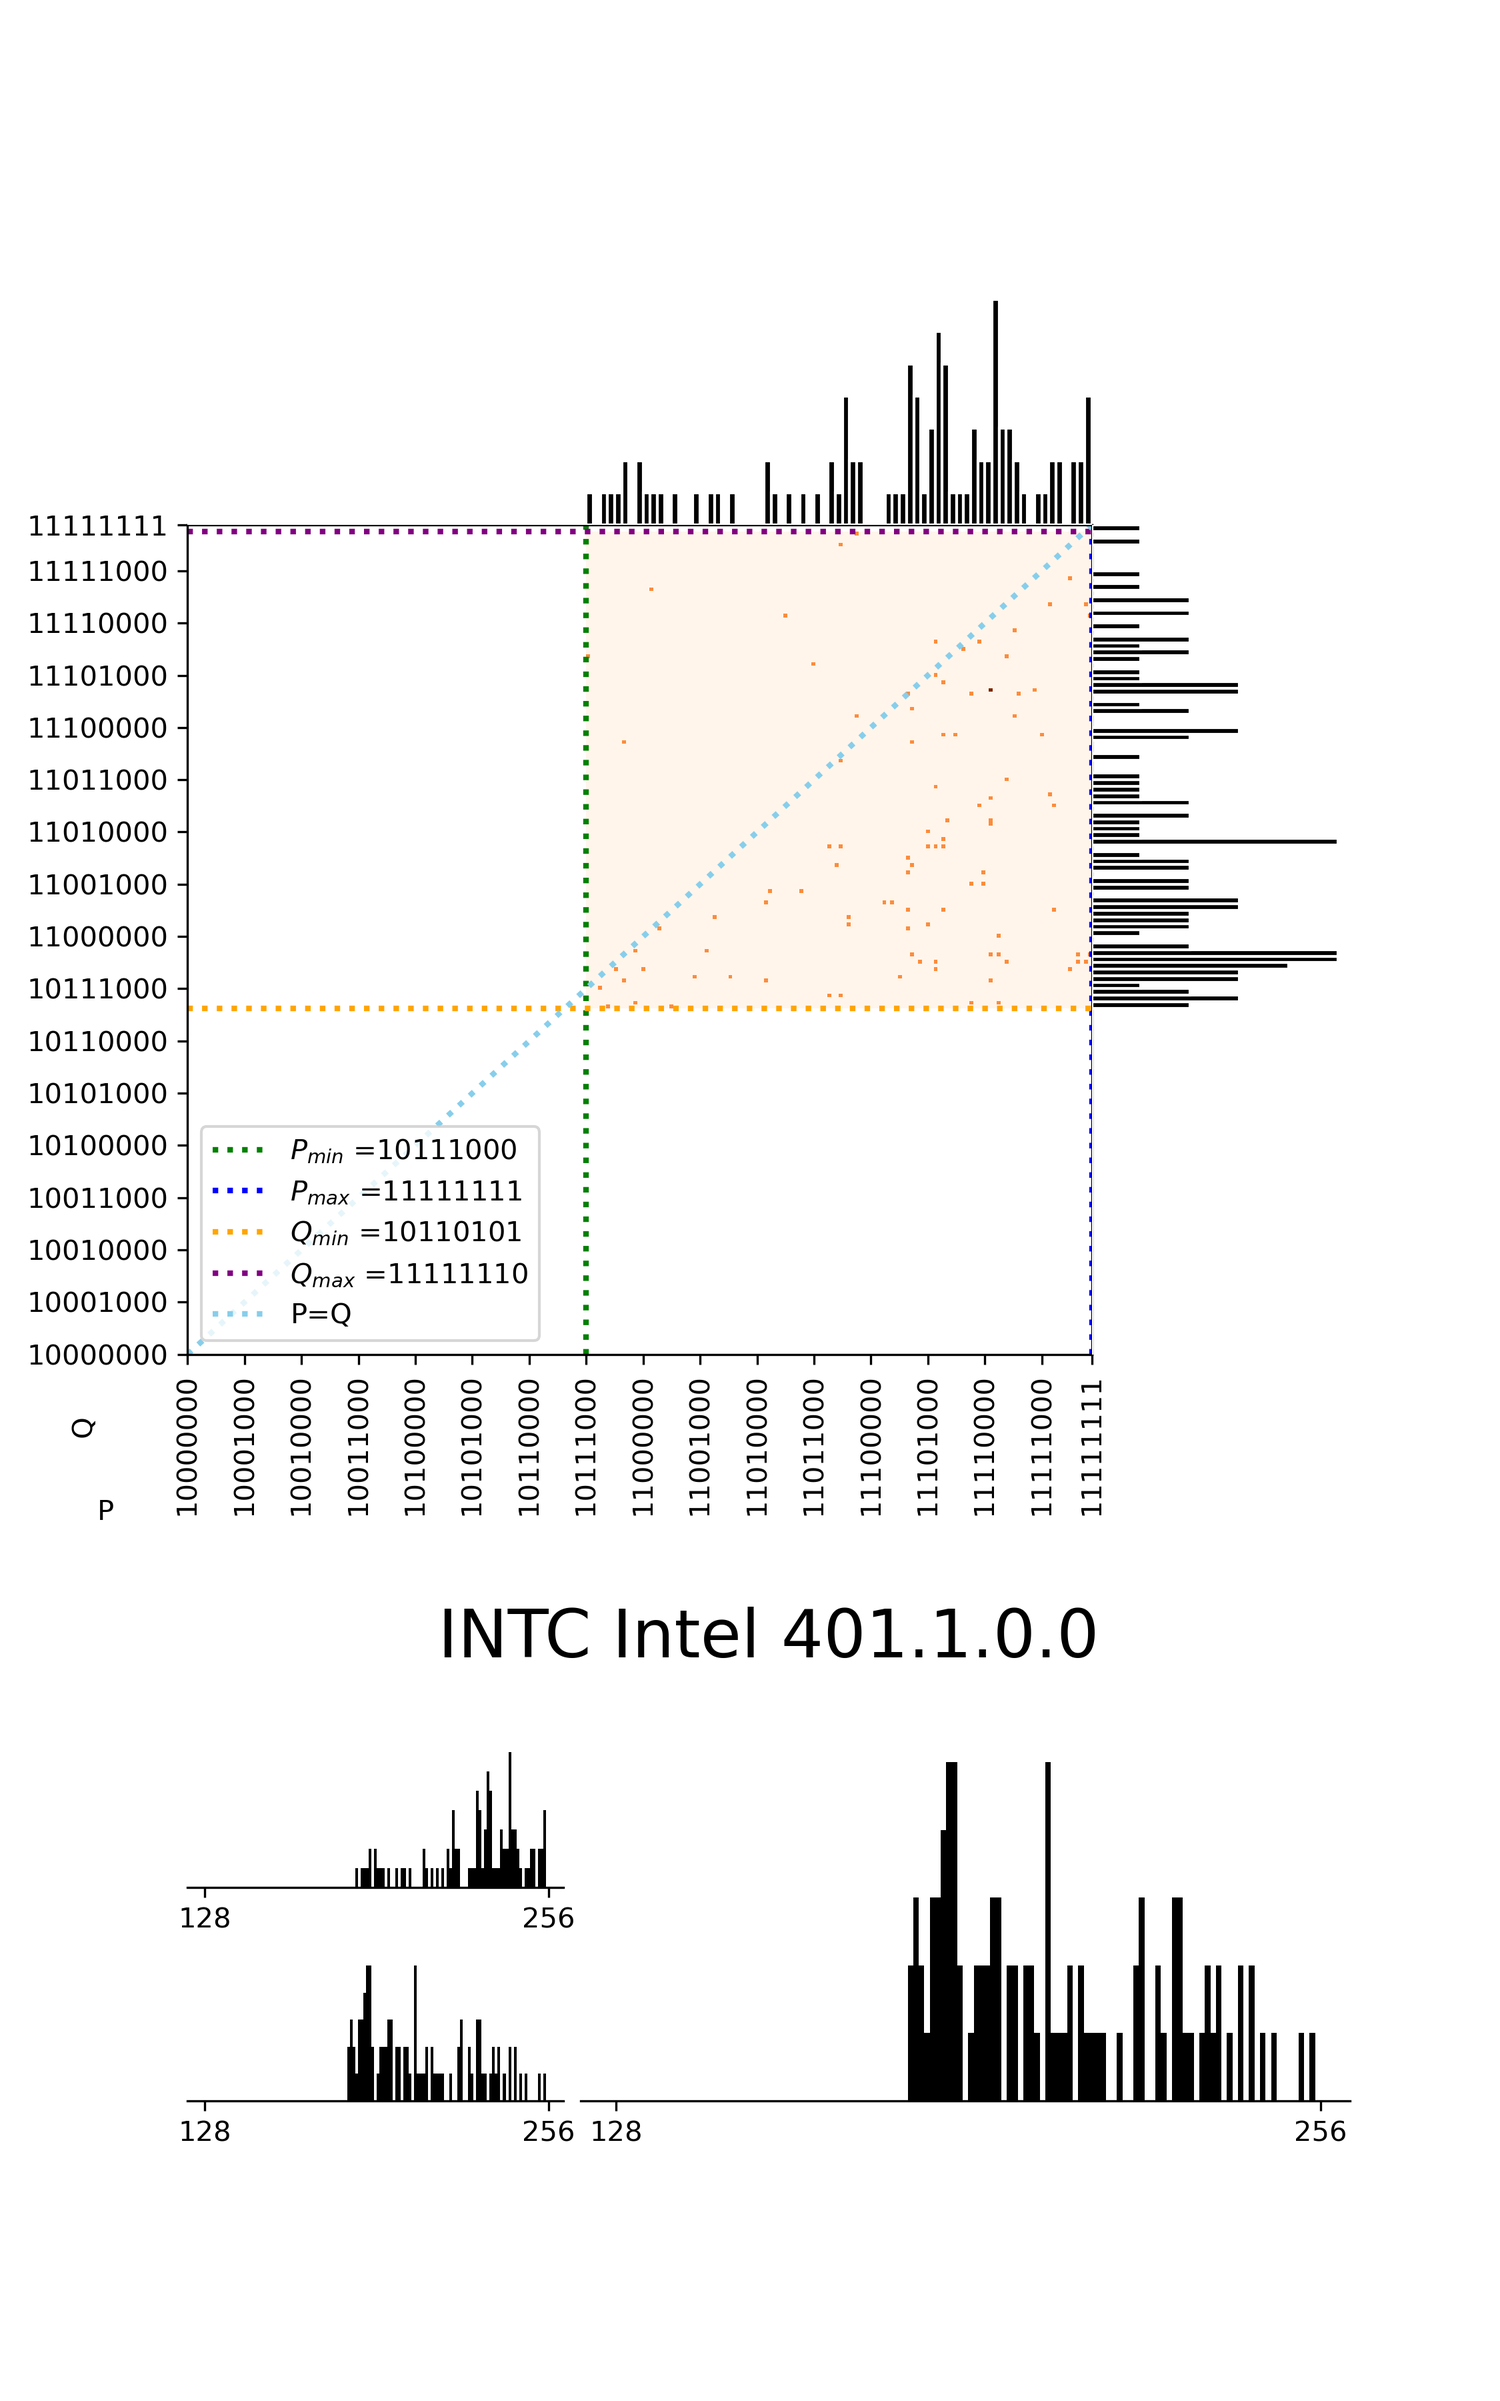
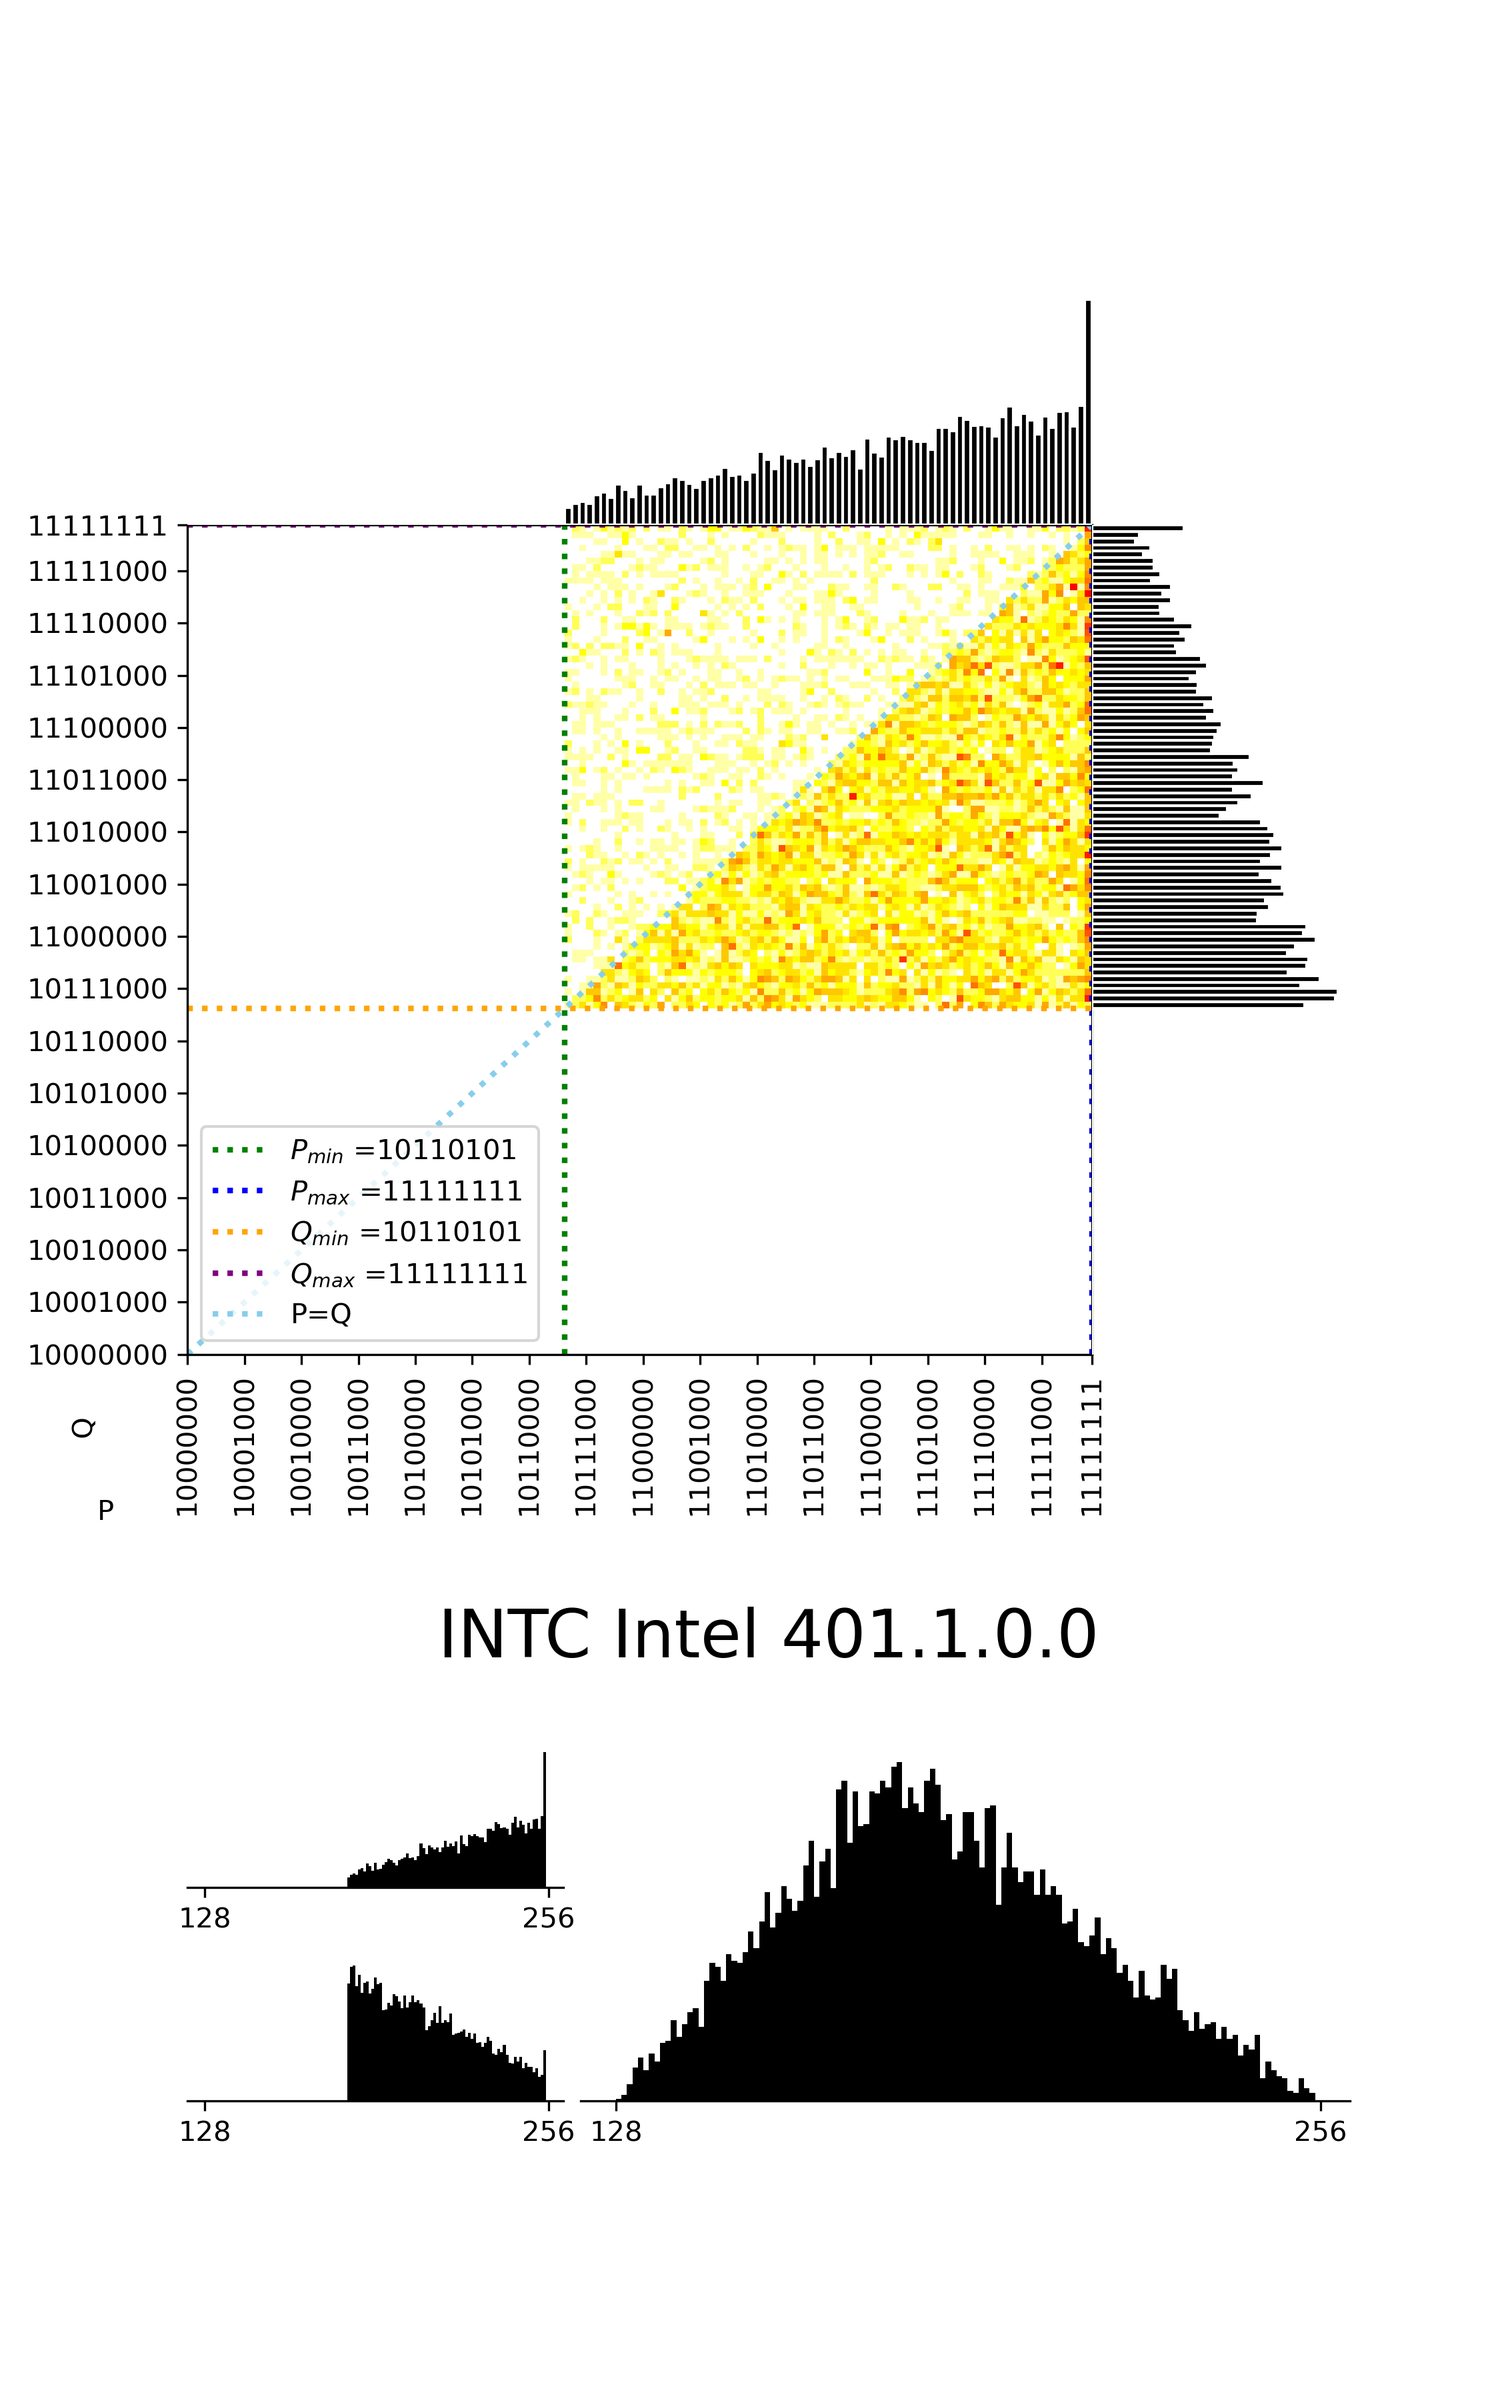
wip: add heatmap img and comparative text

Changed region(s): [[0.3733, 0.1556, 0.8711, 0.56], [0.4044, 0.7156, 0.9022, 0.9022], [0.2178, 0.7467, 0.3733, 0.8711]]

diff --git a/Sources/Implementation.tex b/Sources/Implementation.tex
@@ -108,10 +108,12 @@ Heatmaps can be used in the analysis of generated RSA key pairs. These heatmaps 
 
 The motivation behind this chart comes from the research on RSA keys by Švenda et al. \cite{svenda-1mrsa_usenix2016}. They analyzed millions of key pairs generated by almost four dozen software libraries and smart cards. Their analysis revealed, among other things, that depending on the design and implementation of key generation, the origin of the key may be identified just from a public modulus $n$. That is why it may be interesting to analyze the charts that depict primes and moduli distributions for key pairs generated by the TPM devices.
 
-The heatmap chart design is inspired by Nemec \cite{Nemec2016thesis}, but his R script for generation of the heatmaps could not be easily reused in Python with the TPM datasets, so the plot generation had to be created in Python from the scratch.
+The heatmap chart design is inspired by Nemec \cite{Nemec2016thesis}, but his R script for the generation of the heatmaps could not be easily reused in Python with the TPM datasets, so the plot generation had to be created in Python from the scratch.
 
 \subsection{Comparative table}
-The comparative table allows for a simple comparison between cards. Multiple comparative tables are generated in one file divided into symmetric, asymmetric cryptography, and frequently used algorithms also called Top Functions. The tables themselves allow for sorting of the cards just by simply clicking on the column containing values according to which rows will be sorted.
+The comparative table is used for a simple comparison between devices. When generated, the tool creates a page with several tables. Each table represents a category of algorithms whereas each column represents one algorithm from this category. The possible categories can be, for example, asymmetric algorithms, symmetric algorithms, and select frequently used algorithms.
+
+The tables themselves allow for simple sorting according to the column values just by clicking on the selected column according to which rows will be sorted.
 
 %\begin{figure}[H]
 %    \centering
@@ -121,7 +123,9 @@ The comparative table allows for a simple comparison between cards. Multiple com
 %\end{figure}
 
 \subsection{Scalability graphs}
-Scalability graphs illustrate a single card's performance for a specific algorithm depending on input data length. The graph is generated for each method that was measured. The time scale from minimum to maximum measurement value for each measurement of the given algorithm and average time both in milliseconds can be found by simply hovering over the point in the graph.
+Scalability graphs illustrate the device's performance for a specific algorithm depending on input data length. This visualization thus requires variable-length performance results, which are only collected for JavaCards.
+
+One graph is generated for each method that was successfully measured. By hovering over the point in the graph the operation time range of the measurement along with the average operation time are shown.
 
 %\begin{figure}[H]
 %    \centering  

diff --git a/Sources/Appendix.tex b/Sources/Appendix.tex
@@ -123,7 +123,7 @@ The script process.py provides a CLI in the following way:
 \begin{figure}[H]
     \centering
     \includegraphics[width=\textwidth,height=\textheight-1.5cm, keepaspectratio]{img/visualizations/rsa.png}
-    \caption{TPM chart showing the heatmap and several histograms of most significant bytes of gathered 1024 bit RSA keys.}
+    \caption{TPM chart showing the heatmap and several histograms of MSB values for 10000 RSA 1024-bit key pairs}
     \label{fig:dev-profiles-diagram}
 \end{figure}
 
